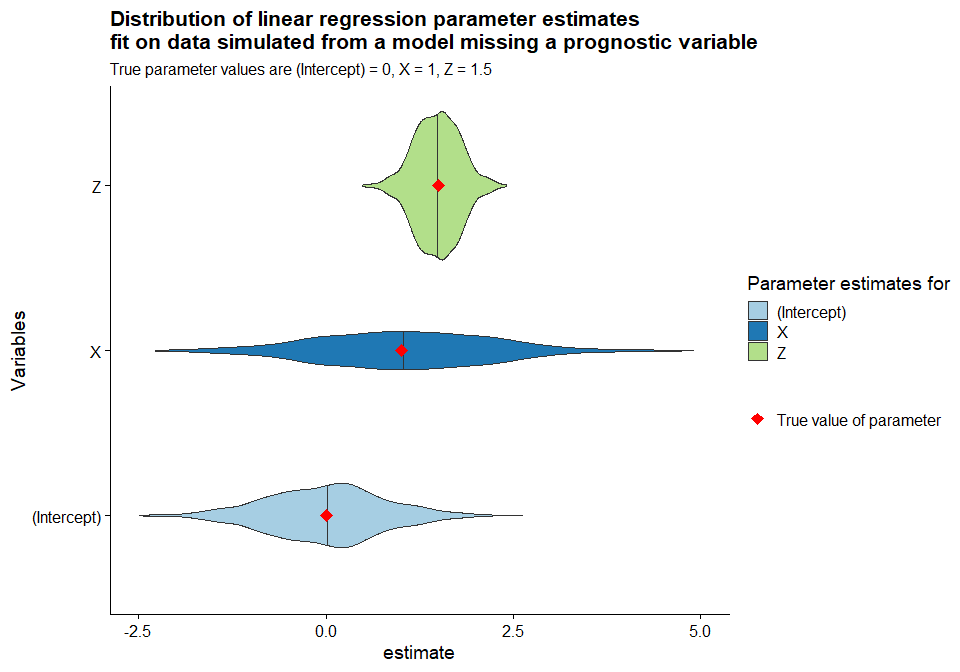
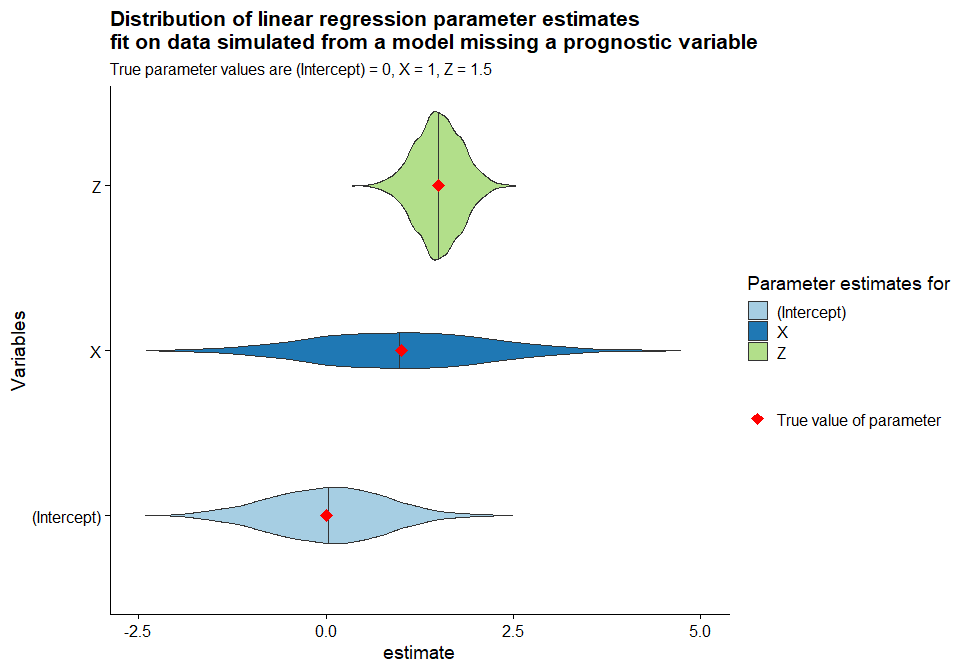
Minor typos, increased # of sims for the hell of it.

diff --git a/README.md b/README.md
@@ -7,3 +7,8 @@
 <!-- badges: end -->
 
 An exploration via simulation of what collapsibility means.
+
+## To-Do
+
+- How does non-collapsibility impact predictions? Do some exploration
+  with the `marginaleffects` package.
